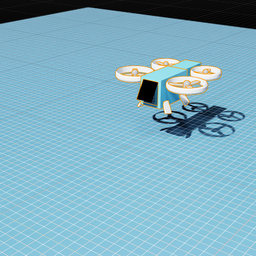
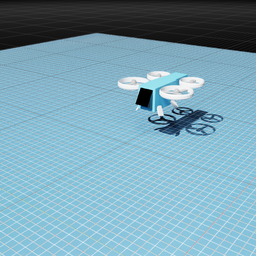
usdrt funcional pero con fallos

diff --git a/ov/fleet/UAM_aerotaxi copia_USDRT/UAM_aerotaxi.py b/ov/fleet/UAM_aerotaxi copia_USDRT/UAM_aerotaxi.py
@@ -11,7 +11,8 @@ import numpy as np
 import matplotlib.pyplot as plt
 from omni.kit.scripting import BehaviorScript
 from scipy.spatial.transform import Rotation
-
+import omni.physx
+import omni.timeline
 import omni.usd
 from usdrt import Usd, Gf, Sdf
 
@@ -44,15 +45,20 @@ from uspace.flight_plan.command import Command
 
 class UAM_minidrone(BehaviorScript):
 
-    def on_init(self):
+    def on_physics_step(self, step_size):
+        self.current_time += step_size
+        self.delta_time = step_size
+
+        if not self.are_attributes_initialized:
+            self.init_attributes()
+            self.are_attributes_initialized = True
+
+        self.update()
+
+    def reset_current_time(self, event):
         self.current_time = 0
-        self.delta_time = 0
 
-        self.usdrt_stage_id = omni.usd.get_context().get_stage_id()
-        self.usdrt_stage = Usd.Stage.Attach(self.usdrt_stage_id)
-        self.usdrt_prim_path = Sdf.Path("/aerotaxi")
-        self.usdrt_prim = self.usdrt_stage.GetPrimAtPath(self.usdrt_prim_path)
-
+    def init_attributes(self):
         self.pos_atr    = self.usdrt_prim.GetAttribute("xformOp:translate")
         self.ori_atr    = self.usdrt_prim.GetAttribute("xformOp:orient")
 
@@ -79,7 +85,31 @@ class UAM_minidrone(BehaviorScript):
 
         primSW = self.usdrt_primRotors.GetChild("SW")
         self.forceSW_atr = primSW.GetAttribute("physxForce:force")
-        self.forceSW_atr.Set(Gf.Vec3f(0,0,0))        
+        self.forceSW_atr.Set(Gf.Vec3f(0,0,0))
+
+        mass_attr = self.usdrt_prim.GetAttribute("physics:mass")
+        self.mass = mass_attr.Get()
+        self.mass = 2000
+
+        inertia_attr = self.usdrt_prim.GetAttribute("physics:diagonalInertia")
+        self.inertia = inertia_attr.Get()
+
+    def on_init(self):
+        self.timeline_sub_stop = self.timeline.get_timeline_event_stream().create_subscription_to_pop_by_type(
+            int(omni.timeline.TimelineEventType.STOP), self.reset_current_time)
+
+        self.physx_interface = omni.physx.get_physx_interface()
+        self.physics_sub = self.physx_interface.subscribe_physics_step_events(self.on_physics_step)
+
+        self.current_time = 0
+        self.delta_time = 0
+
+        self.are_attributes_initialized = False
+
+        self.usdrt_stage_id = omni.usd.get_context().get_stage_id()
+        self.usdrt_stage = Usd.Stage.Attach(self.usdrt_stage_id)
+        self.usdrt_prim_path = Sdf.Path("/aerotaxi")
+        self.usdrt_prim = self.usdrt_stage.GetPrimAtPath(self.usdrt_prim_path)
         
         # Create the omniverse event associated to this UAV
         self.UAV_EVENT = carb.events.type_from_string("NavSim." + str(self.usdrt_prim.GetPath()))
@@ -106,15 +136,6 @@ class UAM_minidrone(BehaviorScript):
         # QUADCOPTER PARAMETERS
 
         self.g    = 9.81
-
-        mass_attr = self.usdrt_prim.GetAttribute("physics:mass")
-        self.mass = mass_attr.Get()
-        self.mass = 2000
-        # print(f"mass: {self.mass}")
-
-        inertia_attr = self.usdrt_prim.GetAttribute("physics:diagonalInertia")
-        self.inertia = inertia_attr.Get()
-        # print(f"inertia: {self.inertia}")
 
         self.pos   = Gf.Vec3f(0, 0, 0)
         self.roll  = 0
@@ -194,33 +215,30 @@ class UAM_minidrone(BehaviorScript):
         self.E_max = 150            # maximum model accumulated error
     
     def on_destroy(self):
+        self.timeline_sub_stop = None
+        self.physics_sub = None
         self.uav_event_sub = None
     #------------------------------------------------------------------------------------------------------------------
     # EVENT HANDLERS
 
     def on_play(self):
-        # print(f"PLAY    {self.usdrt_prim_path}")
-        # print(f"\t {self.current_time} \t {self.delta_time}")
-
         # Tracking
         self.show_tracking = False
         self.refresh_rate = 1
         self.last_time_track = 0
 
         # Update the drone status
-        self.imu()
-        self.navigation()
+        # self.imu()
+        # self.navigation()
         self.command.hover()
-        self.servo_control()
-        self.platform_dynamics()
-        self.telemetry()
+        # self.servo_control()
+        # self.platform_dynamics()
+        # self.telemetry()
 
     def on_pause(self):
-        # print(f"PAUSE   {self.usdrt_prim_path}")
         pass
 
     def on_stop(self):
-        # print(f"STOP    {self.usdrt_prim_path}")
         self.current_time = 0
         self.delta_time = 0
 
@@ -239,14 +257,7 @@ class UAM_minidrone(BehaviorScript):
         self.tracking_figure_builded = False
         self.track_info = []
 
-    def on_update(self, current_time: float, delta_time: float):
-        # print(f"UPDATE  {self.usdrt_prim_path} \t {current_time:.3f} \t {delta_time:.3f}")
-
-        # Get current simulation time
-        self.current_time = current_time
-        self.delta_time = delta_time
-
-        # Update the drone status
+    def update(self):
         self.imu()
         self.navigation()
         self.servo_control()
@@ -296,28 +307,20 @@ class UAM_minidrone(BehaviorScript):
 
     def imu(self):
         self.pos  = self.pos_atr.Get()
-        # print(f"\nposition:  {self.pos}")
 
         ori  = self.ori_atr.Get()
-        # print(f"\norientation:  {self.ori}")
      
         W = ori.real
         X = ori.imaginary[0]
         Y = ori.imaginary[1]
         Z = ori.imaginary[2]
-        # print(f"Orientation:  {W:.4f} {X:.4f} {Y:.4f} {Z:.4f}")
 
         self.rot = Rotation.from_quat([X,Y,Z,W])     
         self.roll, self.pitch, self.yaw = self.rot.as_euler('xyz', degrees=False)
-        # print(f"Euler RPY (rad):  {self.roll:.2f} {self.pitch:.2f} {self.yaw:.2f}")
-        # roll, pitch, yaw = rot.as_euler('xyz', degrees=True)
-        # print(f"Euler RPY (deg):  {roll:.0f} {pitch:.0f} {yaw:.0f}")
 
         self.linear_vel  = self.linVel_atr.Get()
-        # print(f"linear velocity  (local):  {self.linear_vel}")
 
         self.angular_vel = self.angVel_atr.Get() * np.pi / 180
-        # print(f"angular velocity (local):  {self.angular_vel}")
 
     def navigation(self):
         # This function converts a flight plan position at certain time
@@ -395,7 +398,6 @@ class UAM_minidrone(BehaviorScript):
         self.r[1, 0] = self.command.velY       # bYdot
         self.r[2, 0] = self.command.velZ       # bZdot
         self.r[3, 0] = self.command.rotZ       # hZdot
-        # print(f"r: {np.round(self.r.T, 2)}")
 
         # Assign model state
         self.x[0, 0] = self.roll           # ePhi
@@ -406,23 +408,19 @@ class UAM_minidrone(BehaviorScript):
         self.x[5, 0] = self.linear_vel[0]  # bXdot
         self.x[6, 0] = self.linear_vel[1]  # bYdot
         self.x[7, 0] = self.linear_vel[2]  # bZdot
-        # print(f"x: {np.round(self.x.T, 2)}")
 
         # Assign model output
         self.y[0, 0] = self.x[5, 0]        # bXdot
         self.y[1, 0] = self.x[6, 0]        # bYdot
         self.y[2, 0] = self.x[7, 0]        # bZdot
         self.y[3, 0] = self.x[4, 0]        # bWz
-        # print(f"y: {np.round(self.y.T, 2)}")
 
         # Error between the output and the reference 
         # (between the commanded velocity and the drone velocity)
         self.e = self.y - self.r
-        # print(f"e: {np.round(self.e.T, 2)}")
 
         # Cumulative error
         self.E = self.E + (self.e * self.delta_time)
-        # print(f"E: {np.round(self.E.T, 2)}")
 
         # Error saturation
         # if self.E[0, 0] >  self.E_max : self.E[0, 0] =  self.E_max
@@ -436,7 +434,6 @@ class UAM_minidrone(BehaviorScript):
 
         # Dynamic system control
         self.u = self.Hs - self.Kx @ self.x - self.Ky @ self.E
-        # print(f"u: {np.round(self.u.T, 2)}")
 
         # Rotor speed saturation
         if self.u[0, 0] > self.w_max : self.u[0, 0] = self.w_max
@@ -487,18 +484,15 @@ class UAM_minidrone(BehaviorScript):
         MDR_SE = self.kMDR_S * self.w_rotor_SE**2
         MDR_SW = self.kMDR_S * self.w_rotor_SW**2
         MDR = Gf.Vec3f(0, 0, MDR_NE - MDR_NW - MDR_SE + MDR_SW)
-        # print(f"MDR  = {MDR}")
 
         # Compute the air friction moment
         MD = Gf.Vec3f(
             -self.kMDx * self.angular_vel[0] * abs(self.angular_vel[0]),
             -self.kMDy * self.angular_vel[1] * abs(self.angular_vel[1]),
             -self.kMDz * self.angular_vel[2] * abs(self.angular_vel[2]))
-        # print(f"MD  = {MD}")
 
         # Apply the moments to the drone
         self.torque_atr.Set(MDR + MD)
-        # print(f"Torque Z => \t {MDR[2]:.4f} + {MD[2]:.4f} = {MDR[2] + MD[2]:.4f}")
 
     #------------------------------------------------------------------------------------------------------------------
     # TRACKING FUNCTIONS
